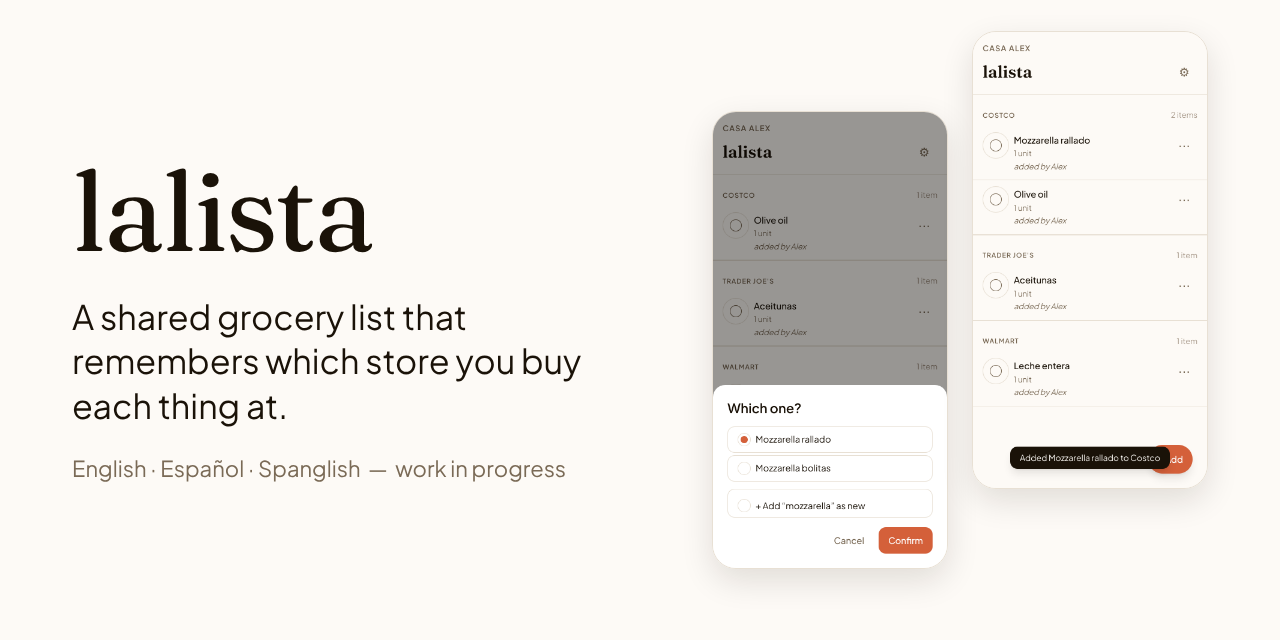
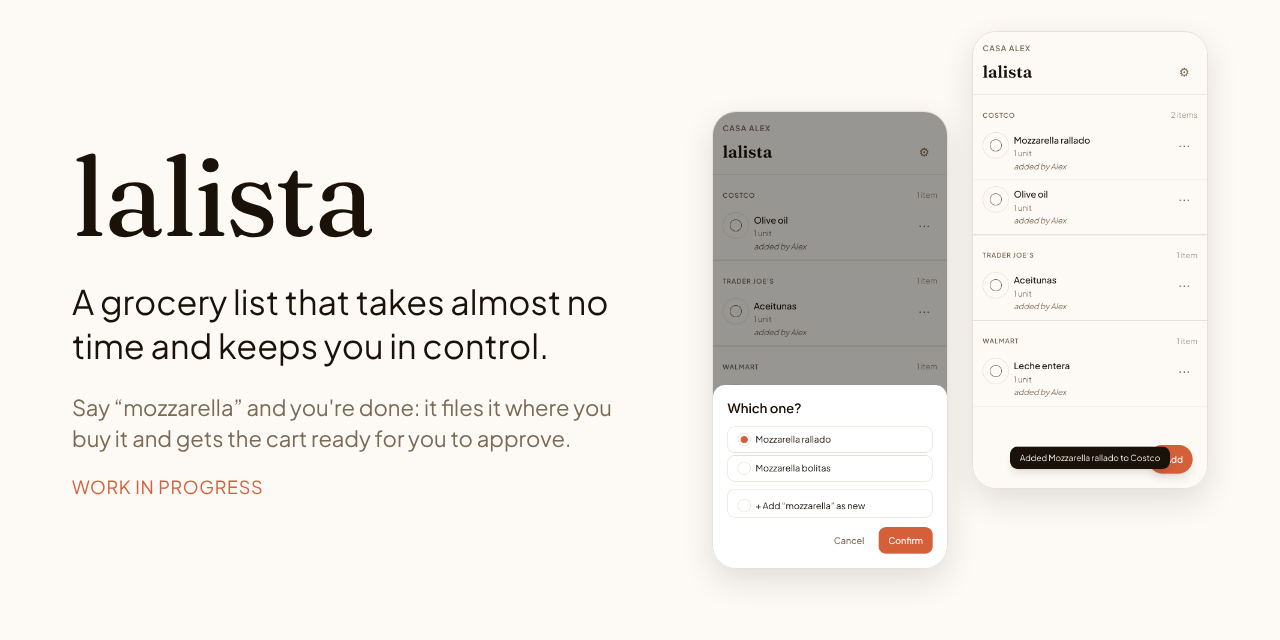
docs: lead the README and social preview with the concept
The opening now says what lalista is meant to be (almost no time, fully
in control: say one word, it knows what you mean and readies the cart
for approval), with the owner's mozzarella scenario, and then states
plainly that today only the store-memory piece exists and it doesn't
work well yet. The social preview tagline follows the same framing.

Claude-Session: https://claude.ai/code/session_012aPeyjMq5L1nXVrLEZpgF5

Changed region(s): [[0.0312, 0.4375, 0.4688, 0.5938], [0.0312, 0.625, 0.4688, 0.7812], [0.0625, 0.2188, 0.3125, 0.4062]]

diff --git a/README.md b/README.md
@@ -4,9 +4,9 @@
 
 <img src="docs/readme/demo.gif" alt="Demo household: typing “mozzarella” into lalista, it asks which mozzarella, then files it under Costco because that's where the household bought it before" width="360">
 
-A shared grocery list for bilingual households that files each item under the store you usually buy it at.
+A grocery list for busy households, meant to take almost no time and keep you fully in control: say one word, and it knows what you mean and gets the cart ready for you to approve.
 
-Everyone in the household sees the same list, updating live. You type items in English, Spanish or a mix. When a word could mean several products, the app asks which one. Once you've marked something bought at a store, it usually goes straight there next time. Invite people with a link and keep your own list of stores. The goal is voice-first: say "we ran out of mozzarella" and have the app work out both the store and the exact product from your history. Today it's a typed web app that infers the store. Voice, a native app and cart set-up are next steps, not features.
+You're cooking for the kids and realize there's no mozzarella. The idea: press a button on your phone, say "mozzarella", done. No unlocking, no wading through notifications, no finding the app and typing a note. lalista should know that in your house "mozzarella" means the shredded one from Costco, file it there, and prepare the online cart so all you do is approve the purchase. Today only the first piece exists: a shared web list you type into, in English or Spanish, that remembers which store you buy each thing at, and it doesn't do that very well yet. Voice, knowing the exact product, and cart set-up are the goal, not features.
 
 ## Approach
 
